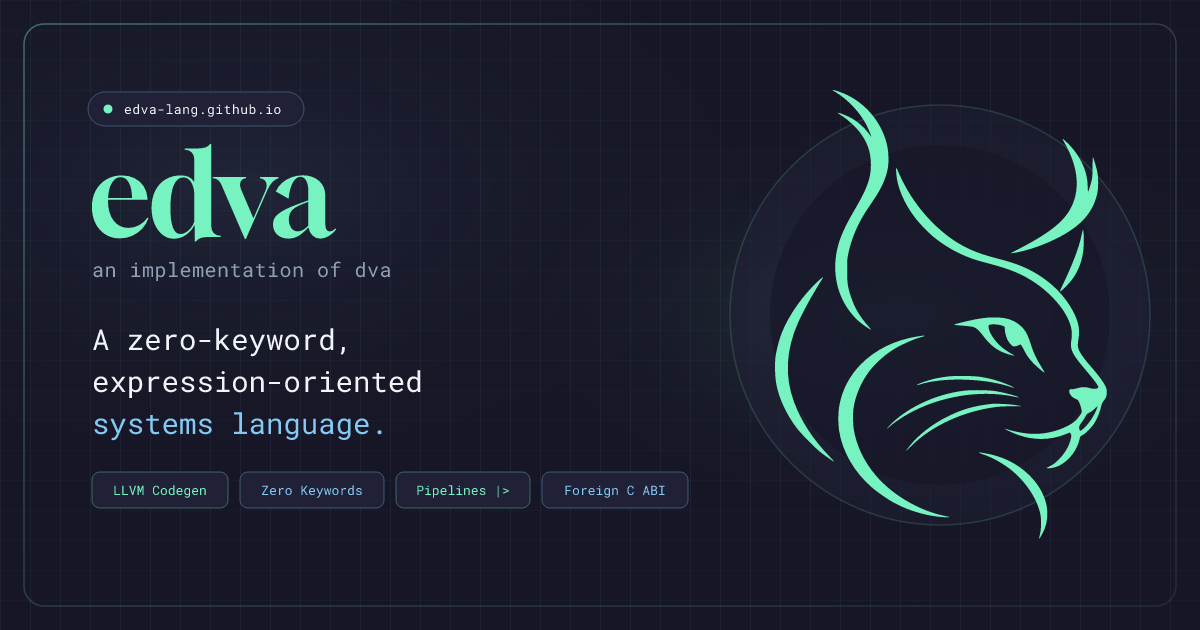
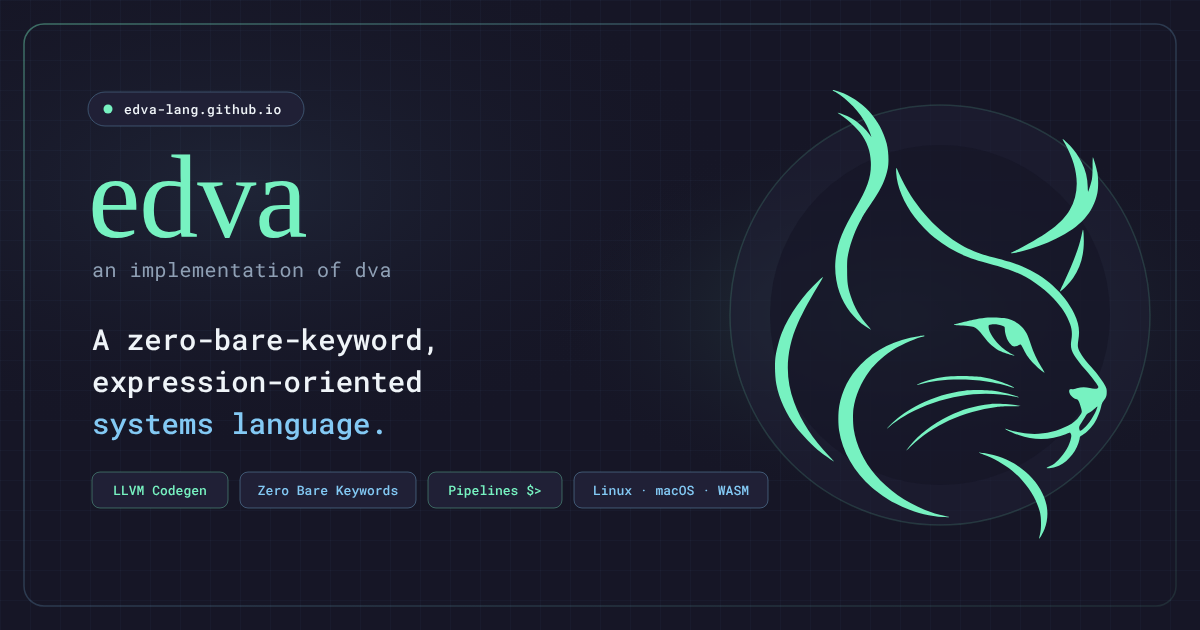
docs: use 'zero bare keywords', list tested targets (Linux, Apple Silicon macOS, WASM), refresh OG cards and snippets (DVA-119)

diff --git a/index.html b/index.html
@@ -3,17 +3,17 @@
 <head>
   <meta charset="UTF-8">
   <meta name="viewport" content="width=device-width, initial-scale=1.0">
-  <title>edva — a zero-keyword, expression-oriented systems language</title>
+  <title>edva — a zero-bare-keyword, expression-oriented systems language</title>
   
-  <meta name="description" content="A zero-keyword, expression-oriented systems language generating native machine code via LLVM.">
+  <meta name="description" content="A zero-bare-keyword, expression-oriented systems language targeting Linux, Apple Silicon (macOS), and WebAssembly via LLVM.">
   <link rel="canonical" href="https://edva-lang.github.io/">
   <meta name="theme-color" content="#161626">
 
   <!-- Open Graph / Facebook -->
   <meta property="og:type" content="website">
   <meta property="og:url" content="https://edva-lang.github.io/">
-  <meta property="og:title" content="edva — a zero-keyword, expression-oriented systems language">
-  <meta property="og:description" content="A zero-keyword, expression-oriented systems language generating native machine code via LLVM.">
+  <meta property="og:title" content="edva — a zero-bare-keyword, expression-oriented systems language">
+  <meta property="og:description" content="A zero-bare-keyword, expression-oriented systems language targeting Linux, Apple Silicon (macOS), and WebAssembly via LLVM.">
   <meta property="og:image" content="https://edva-lang.github.io/og-card.png">
   <meta property="og:image:secure_url" content="https://edva-lang.github.io/og-card.png">
   <meta property="og:image:width" content="1200">
@@ -28,8 +28,8 @@
   <meta name="twitter:domain" content="edva-lang.github.io">
   <meta name="twitter:url" content="https://edva-lang.github.io/">
   <meta name="twitter:creator" content="@baldgeorge">
-  <meta name="twitter:title" content="edva — a zero-keyword, expression-oriented systems language">
-  <meta name="twitter:description" content="A zero-keyword, expression-oriented systems language generating native machine code via LLVM.">
+  <meta name="twitter:title" content="edva — a zero-bare-keyword, expression-oriented systems language">
+  <meta name="twitter:description" content="A zero-bare-keyword, expression-oriented systems language targeting Linux, Apple Silicon (macOS), and WebAssembly via LLVM.">
   <meta name="twitter:image" content="https://edva-lang.github.io/og-card.png">
   <meta name="twitter:image:alt" content="edva programming language banner featuring lynx mascot and language highlights">
   
@@ -50,7 +50,7 @@
         "@id": "https://edva-lang.github.io/#website",
         "url": "https://edva-lang.github.io/",
         "name": "edva",
-        "description": "A zero-keyword, expression-oriented systems language generating native machine code via LLVM.",
+        "description": "A zero-bare-keyword, expression-oriented systems language targeting Linux, Apple Silicon (macOS), and WebAssembly via LLVM.",
         "inLanguage": "en-US"
       },
       {
@@ -58,10 +58,10 @@
         "@id": "https://edva-lang.github.io/#software",
         "name": "edva",
         "applicationCategory": "DeveloperApplication",
-        "operatingSystem": "Linux, macOS, Windows",
+        "operatingSystem": "Linux, macOS, WebAssembly",
         "url": "https://edva-lang.github.io/",
         "image": "https://edva-lang.github.io/og-image.png",
-        "description": "A zero-keyword, expression-oriented systems language generating native machine code via LLVM.",
+        "description": "A zero-bare-keyword, expression-oriented systems language targeting Linux, Apple Silicon (macOS), and WebAssembly via LLVM.",
         "offers": {
           "@type": "Offer",
           "price": "0",
@@ -96,7 +96,8 @@
       </div>
       <h1 class="brand-title">edva</h1>
       <p class="brand-sub">an implementation of dva</p>
-      <p class="tagline">A zero-keyword, expression-oriented systems language.</p>
+      <p class="tagline">A zero-bare-keyword, expression-oriented systems language.</p>
+      <p class="targets-line">Tested targets: Linux &middot; Apple Silicon (macOS) &middot; WebAssembly (WASM)</p>
 
       <div class="nav-links">
         <a href="/edva/" class="btn btn-primary">Read Documentation &rarr;</a>
@@ -126,7 +127,7 @@
           <div class="content-grid">
             <div class="feature-info">
               <h3>Symbolic Control Flow</h3>
-              <p>Edva has <strong>zero keywords</strong>. Conditional branches, pattern matching, and cycles are unified into expressions.</p>
+              <p>Edva has <strong>zero bare keywords</strong> — words like <code>if</code>, <code>for</code>, and <code>return</code> are ordinary identifiers, while meta-level directives live in the <code>#</code>-prefixed namespace (<code>#use</code>, <code>#type</code>, <code>#foreign</code>).</p>
               <ul>
                 <li><code>|</code> introduces choices and fallback branches</li>
                 <li><code>[guard]</code> supports value, predicate (e.g. <code>[!&lt; 90]</code>), or variant guards</li>
@@ -406,13 +407,14 @@ total<span class="tok-op">'</span> <span class="tok-op">=</span> <span class="to
               <ul>
                 <li><code>libc::open</code> opens native POSIX file descriptors</li>
                 <li><code>b = {4096}</code> allocates an in-place Builder buffer</li>
-                <li><code>&amp;b</code> passes the writable buffer pointer directly</li>
-                <li><code>?b = n</code> updates length; <code>+b</code> freezes without copying</li>
+                <li><code>mem::write_tail</code> reserves tail space and bounds-checks the written count</li>
+                <li><code>+b</code> freezes into a <code>String</code> without copying</li>
               </ul>
             </div>
             <div class="code-wrapper">
               <button class="copy-btn" onclick="copySnippet(this)">Copy</button>
               <pre><code><span class="tok-dir">#use</span> <span class="tok-typ">libc</span>
+<span class="tok-dir">#use</span> <span class="tok-typ">mem</span>
 
 <span class="tok-com">// Zero-copy file read using Builder buffer</span>
 <span class="tok-fn">read_file</span>: <span class="tok-typ">String</span> <span class="tok-op">=&gt;</span> <span class="tok-op">&lt;</span> <span class="tok-typ">String</span> <span class="tok-op">|</span> <span class="tok-op">&gt;</span>
@@ -421,9 +423,9 @@ total<span class="tok-op">'</span> <span class="tok-op">=</span> <span class="to
    fd <span class="tok-op">[</span><span class="tok-op">&lt;</span> <span class="tok-num">0</span><span class="tok-op">]</span> <span class="tok-op">&lt;--&gt;</span>
    <span class="tok-op">|</span>
       b <span class="tok-op">=</span> {<span class="tok-num">4096</span>}
-      n <span class="tok-op">=</span> <span class="tok-fn">libc::read</span>(fd, <span class="tok-op">&amp;</span>b, <span class="tok-num">4096</span>)
+      n <span class="tok-op">=</span> <span class="tok-fn">mem::write_tail</span>(b, <span class="tok-num">4096</span>, (dst, avail <span class="tok-op">=&gt;</span> <span class="tok-fn">libc::read</span>(fd, dst, avail)))
       <span class="tok-fn">libc::close</span>(fd)
-      n <span class="tok-op">&gt;</span> <span class="tok-num">0</span> <span class="tok-op">|</span> (<span class="tok-op">?</span>b <span class="tok-op">=</span> n; <span class="tok-op">&lt;+</span> <span class="tok-op">+</span>b <span class="tok-op">+&gt;</span>) <span class="tok-op">|</span> <span class="tok-op">&lt;--&gt;</span></code></pre>
+      n <span class="tok-op">&gt;</span> <span class="tok-num">0</span> <span class="tok-op">|</span> <span class="tok-op">&lt;+</span> <span class="tok-op">+</span>b <span class="tok-op">+&gt;</span> <span class="tok-op">|</span> <span class="tok-op">&lt;--&gt;</span></code></pre>
             </div>
           </div>
         </div>
@@ -637,7 +639,7 @@ is_term <span class="tok-op">|</span> <span class="tok-fn">puts</span>(<span cla
               <h3>Compile-Time &amp; Here-Docs</h3>
               <p>First-class compile-time evaluation, Unicode runes, repetition, and multiline here-documents.</p>
               <ul>
-                <li><code>#!</code> evaluates expressions at compile time and folds static constants</li>
+                <li><code>#const</code> evaluates expressions at compile time and folds static constants</li>
                 <li><code>"""..."""</code> here-docs with baseline margin stripping and <code>${expr}</code> interpolation</li>
                 <li>Unescaped <code>"</code> and <code>""</code> work as-is; direct in-place lowering into Builders</li>
                 <li><code>expr {N}</code> repetition constructs flat, register-allocated records</li>
@@ -645,9 +647,9 @@ is_term <span class="tok-op">|</span> <span class="tok-fn">puts</span>(<span cla
             </div>
             <div class="code-wrapper">
               <button class="copy-btn" onclick="copySnippet(this)">Copy</button>
-              <pre><code><span class="tok-com">// Compile-time constant folding with #!</span>
-<span class="tok-dir">#!</span> <span class="tok-dir">#type</span> <span class="tok-typ">Version</span> (major: <span class="tok-typ">Int</span>, minor: <span class="tok-typ">Int</span>, patch: <span class="tok-typ">Int</span>)
-<span class="tok-dir">#!</span> <span class="tok-fn">build_ver</span> <span class="tok-op">=</span> <span class="tok-typ">Version</span>(<span class="tok-num">1</span>, <span class="tok-num">4</span>, <span class="tok-num">0</span>)
+              <pre><code><span class="tok-com">// Compile-time constant folding with #const</span>
+<span class="tok-dir">#type</span> <span class="tok-typ">Version</span> (major: <span class="tok-typ">Int</span>, minor: <span class="tok-typ">Int</span>, patch: <span class="tok-typ">Int</span>)
+<span class="tok-fn">build_ver</span> <span class="tok-op">=</span> <span class="tok-dir">#const</span> <span class="tok-typ">Version</span>(<span class="tok-num">1</span>, <span class="tok-num">6</span>, <span class="tok-num">2</span>)
 
 <span class="tok-com">// Triple-quoted here-doc with margin stripping &amp; interpolation</span>
 user <span class="tok-op">=</span> <span class="tok-str">"Alice"</span>
@@ -658,9 +660,9 @@ report <span class="tok-op">=</span> <span class="tok-str">"""
    Note: unescaped "quotes" and ""double quotes"" work as-is.
    """</span>
 
-<span class="tok-com">// Repetition literal (0 {8}) and 64-bit Unicode Rune</span>
+<span class="tok-com">// Repetition literal (0 {8}) and 32-bit Unicode Rune</span>
 zero_block <span class="tok-op">=</span> <span class="tok-num">0</span> {<span class="tok-num">8</span>}
-badge <span class="tok-op">=</span> <span class="tok-str">'⚡'</span></code></pre>
+badge <span class="tok-op">=</span> <span class="tok-str">'⚡</span></code></pre>
             </div>
           </div>
         </div>

diff --git a/style.css b/style.css
@@ -247,8 +247,16 @@ main {
    color: var(--text-muted);
    font-weight: 400;
    max-width: 680px;
-   margin: 0 auto 2rem auto;
+   margin: 0 auto 0.75rem auto;
    line-height: 1.5;
+}
+
+.targets-line {
+   font-size: 0.9rem;
+   color: var(--text-muted);
+   opacity: 0.85;
+   letter-spacing: 0.02em;
+   margin: 0 auto 2rem auto;
 }
 
 .nav-links {
